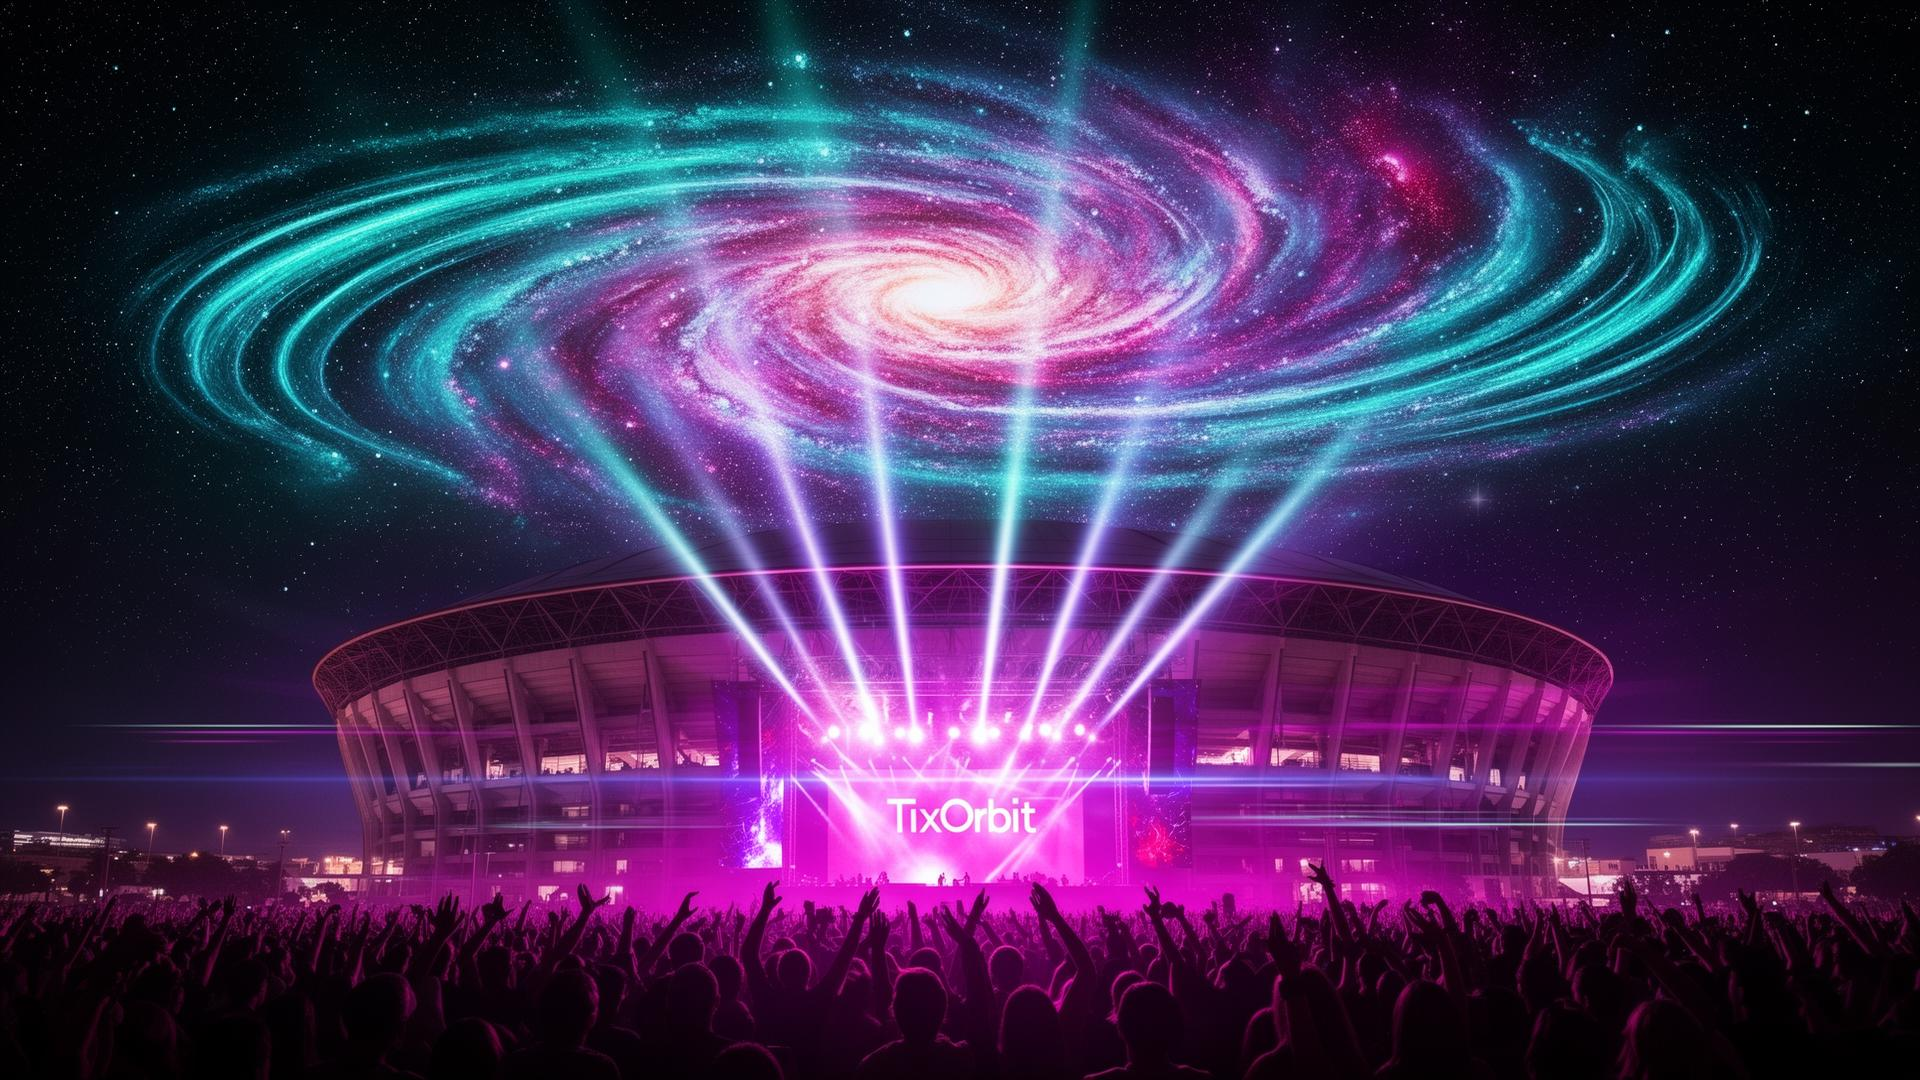
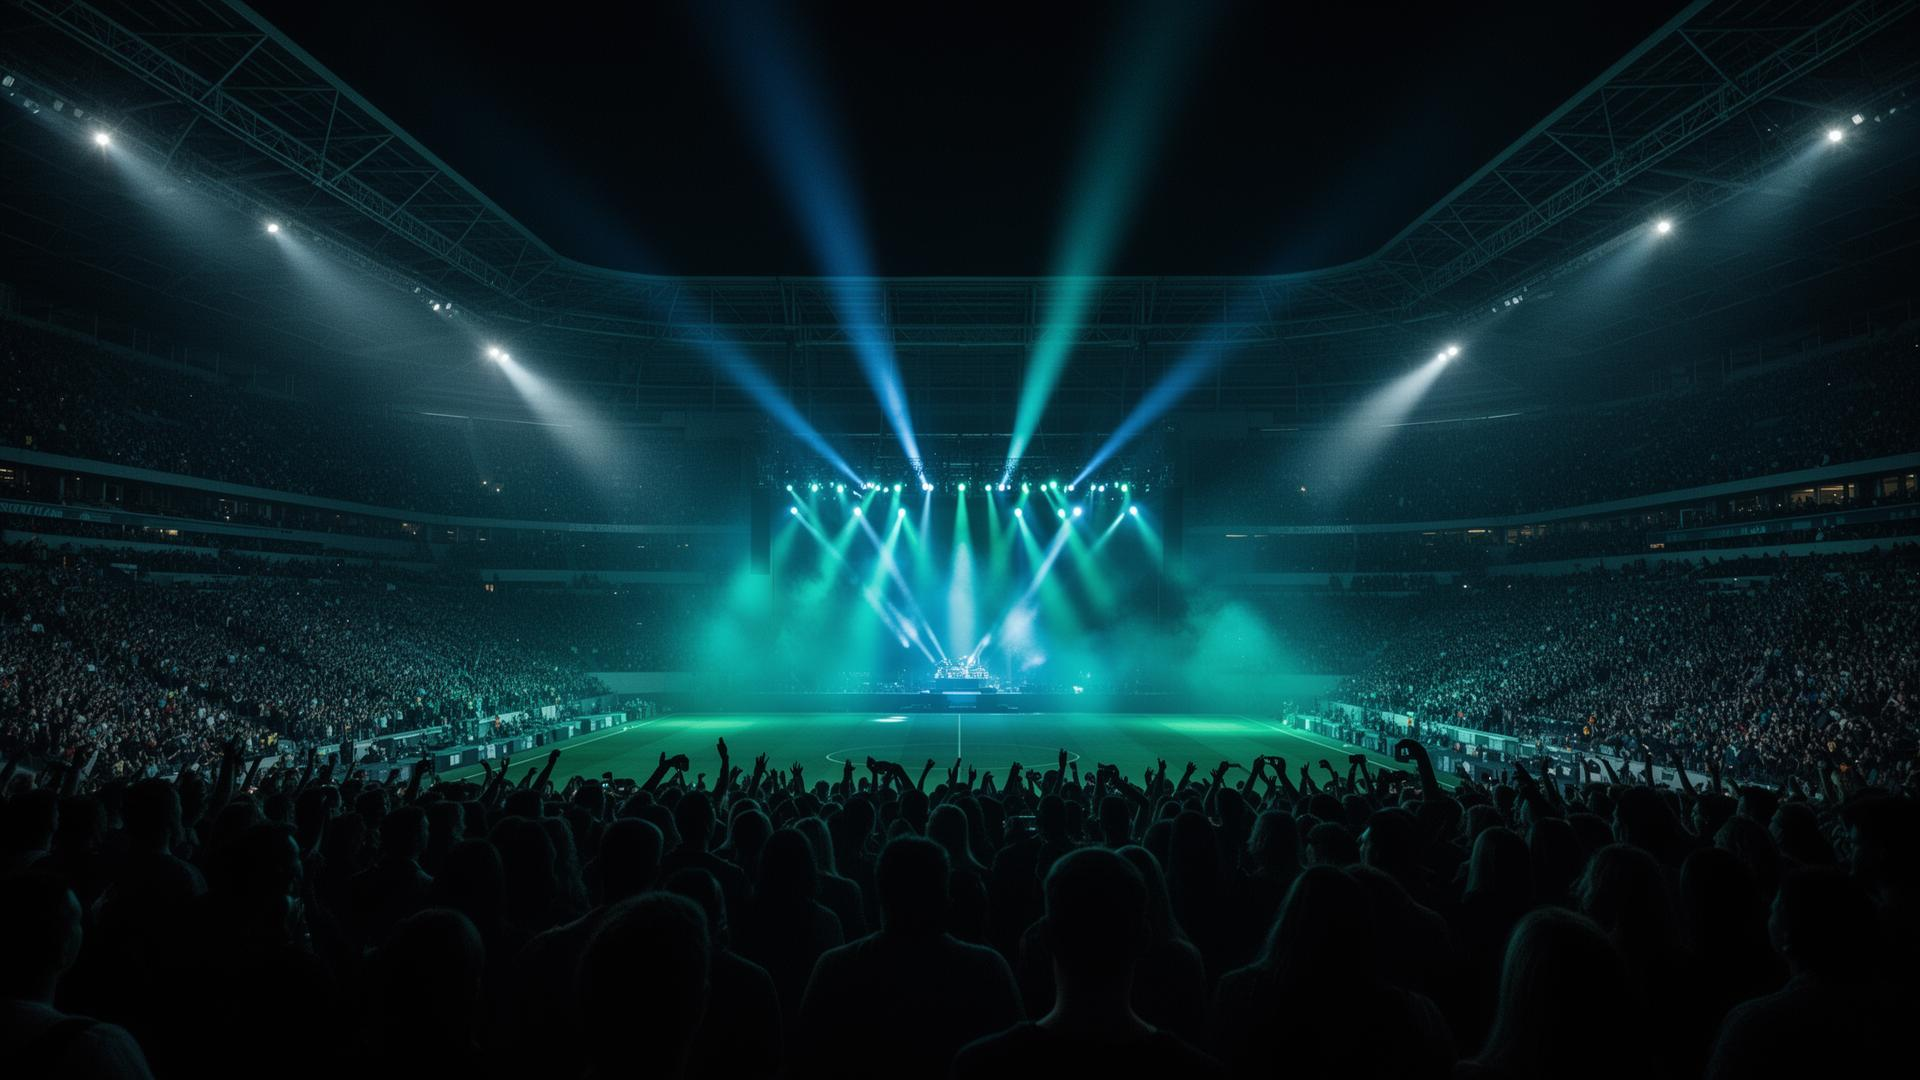
Reverted to commit cf483688fb6f87c047ab16e40fab31b17a21ada0

diff --git a/src/index.css b/src/index.css
@@ -214,18 +214,9 @@
     animation: fade-in 0.5s ease-out;
   }
 
-  .animate-twinkle {
-    animation: twinkle 3s ease-in-out infinite;
-  }
-
   @keyframes float {
     0%, 100% { transform: translateY(0px); }
     50% { transform: translateY(-10px); }
-  }
-
-  @keyframes float-gentle {
-    0%, 100% { transform: scale(1); opacity: 0.85; }
-    50% { transform: scale(1.05); opacity: 1; }
   }
 
   @keyframes pulse-glow {
@@ -243,40 +234,11 @@
     to { opacity: 1; }
   }
 
-  @keyframes spin-orbit {
-    from { transform: rotate(0deg); }
-    to { transform: rotate(360deg); }
-  }
-
-  @keyframes counter-spin-orbit {
-    from { transform: rotate(0deg); }
-    to { transform: rotate(-360deg); }
-  }
-
-  @keyframes spin-orbit-inline {
-    from { transform: rotate(0deg); }
-    to { transform: rotate(360deg); }
-  }
-
-  @keyframes twinkle {
-    0%, 100% { opacity: 0.3; transform: scale(1); }
-    50% { opacity: 1; transform: scale(1.5); }
-  }
-
   .text-gradient {
     @apply bg-clip-text text-transparent bg-gradient-to-r from-foreground to-foreground/80;
   }
 
   .text-gradient-primary {
     @apply bg-clip-text text-transparent bg-gradient-to-r from-primary to-primary/70;
-  }
-
-  .performer-orbit-item {
-    transition: transform 0.3s ease, box-shadow 0.3s ease;
-  }
-
-  .performer-orbit-item:hover {
-    transform: scale(1.2);
-    box-shadow: 0 0 30px hsl(193 90% 42% / 0.6);
   }
 }

diff --git a/src/components/Hero.tsx b/src/components/Hero.tsx
@@ -5,7 +5,6 @@ import heroImage from '@/assets/hero-stadium.jpg';
 import { cities } from '@/data/mockData';
 import { supabase } from '@/integrations/supabase/client';
 import { cn } from '@/lib/utils';
-import { PerformerUniverse } from './PerformerUniverse';
 
 interface SearchResult {
   id: string;
@@ -197,7 +196,7 @@ export const Hero = () => {
   const typeOrder: SearchResult['type'][] = ['performer', 'event', 'venue'];
 
   return (
-    <section className="relative min-h-[80vh] flex items-center justify-center overflow-hidden">
+    <section className="relative min-h-[70vh] flex items-center justify-center overflow-hidden">
       {/* Background Image */}
       <div className="absolute inset-0">
         <img
@@ -205,12 +204,9 @@ export const Hero = () => {
           alt="Stadium"
           className="w-full h-full object-cover"
         />
-        <div className="absolute inset-0 bg-gradient-to-b from-background/40 via-background/70 to-background" />
+        <div className="absolute inset-0 bg-gradient-to-b from-background/30 via-background/60 to-background" />
         <div className="absolute inset-0 bg-hero-pattern" />
       </div>
-
-      {/* Performer Universe Animation */}
-      <PerformerUniverse />
 
       {/* Content */}
       <div className="relative z-10 container mx-auto px-4 text-center">
